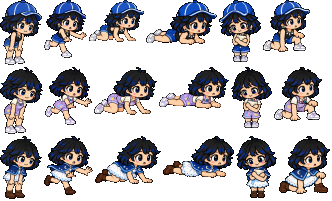
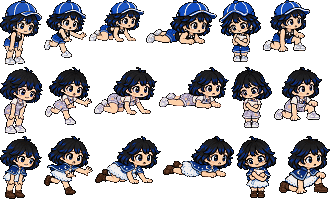
Corrige nitidez de poses y reserva el encuadre de caída sobre el diálogo

diff --git a/app/game/MoonieGame.tsx b/app/game/MoonieGame.tsx
@@ -41,6 +41,7 @@ export default function MoonieGame() {
   const [audioOn,setAudioOn]=useState(false);
   const [fullError,setFullError]=useState('');
   const canvas=useRef<HTMLCanvasElement>(null),preview=useRef<HTMLCanvasElement>(null),frame=useRef<HTMLDivElement>(null);
+  const dialogueBox=useRef<HTMLDivElement>(null);
   const renderer=useRef<MoonieRenderer|null>(null),audio=useRef<MoonieAudio|null>(null);
   const keys=useRef(new Set<string>()),stepTimer=useRef(0),dialogueTimer=useRef(0),advanceRef=useRef(()=>{});
   const live=useRef({scene,look,paused,dialogue,bloomed,finished,visibleChars,progress});
@@ -105,7 +106,14 @@ export default function MoonieGame() {
     function tick(ms:number) {
       if(dead)return;
       const dt=Math.min((ms-(last||ms))/1000,.04);last=ms;
-      const w=world.current,s=live.current;w.scene=s.scene;w.look=s.look;w.bloomed=s.bloomed;w.progress=s.progress;
+      const w=world.current as World & {dialogueTop?:number},s=live.current;w.scene=s.scene;w.look=s.look;w.bloomed=s.bloomed;w.progress=s.progress;
+      if(w.motion==='fallen'&&dialogueBox.current&&canvas.current){
+        const box=dialogueBox.current.getBoundingClientRect(),view=canvas.current.getBoundingClientRect();
+        // Reserve the tallest dialogue encountered, so typewriter wrapping never moves
+        // Moonie down again. Keep this framing through recovery, then discard it.
+        const top=(box.top-view.top)*360/view.height;
+        w.dialogueTop=Math.min(w.dialogueTop??240,top);
+      }else if(!w.motion)w.dialogueTop=undefined;
       w.reading=s.dialogue?.kind==='book1'||s.dialogue?.kind==='book2'||s.dialogue?.kind==='book3'?s.dialogue.kind:null;
       w.starGreeting=s.dialogue?.kind==='star';w.flowerPulse=s.dialogue?.kind==='flower3';
       if(!s.paused) {
@@ -247,7 +255,7 @@ export default function MoonieGame() {
           {!dialogue&&!opening&&<div className="movement-hint"><span><kbd>WASD</kbd> / <kbd>↑↓←→</kbd> Mover</span><span><kbd>E</kbd> Interactuar</span><span><kbd>Esc</kbd> Pausa</span></div>}
           {bloomNotice&&!dialogue&&<div className="bloom-toast" style={{opacity:noticeOpacity}} role="status"><Flower2 size={14}/> Una flor lunar ha despertado</div>}
         </>}
-        {line&&<div className={`dialogue ${bookPage?'book-reading':''}`} role="group" aria-label={`Diálogo de ${line.speaker}`}>
+        {line&&<div ref={dialogueBox} className={`dialogue ${bookPage?'book-reading':''}`} role="group" aria-label={`Diálogo de ${line.speaker}`}>
           <span className="speaker">{line.speaker}{line.thought&&<span> · pensando</span>}</span>
           {bookPage&&<div className="book-vignette" aria-hidden="true"><img src={renderer.current?.bookPages[dialogue?.kind==='book3'?2:dialogue?.kind==='book2'?1:0]} width={512} height={340} alt="" loading="eager" decoding="sync"/></div>}
           <p aria-live="polite" aria-label={line.text}><span aria-hidden="true">{line.text.slice(0,visibleChars)}</span><span className="sr-only">{line.text}</span></p>

diff --git a/app/game/referencias.ts b/app/game/referencias.ts
@@ -1,7 +1,13 @@
 // Approved reference poses and effects (paquete tales-of-moonie-referencias-claude-final-20260924).
-// Generated deterministically by prep/build_assets.py: connected-component cleanup (no global alpha
+// Initially generated by prep/build_assets.py: connected-component cleanup (no global alpha
 // threshold), eye anchors detected from each reference, area reduction with the head width matched
-// to the approved pose of the same outfit. Rectangles index public/assets/moonie-poses-referencias.png.
+// to the approved pose of the same outfit. Crisp palette preparation: scripts/prepare-crisp-poses.py.
+// Rectangles index public/assets/moonie-poses-referencias.png; silhouette and anchors are unchanged.
+// Screen-space composition only: keep the entire 2x silhouette above the actual dialogue box.
+export function rootShotLayout(dialogueTop = 240) {
+  const feetY = Math.round(Math.min(222, dialogueTop - 18));
+  return { x:300, feetY, starX:196, starY:feetY-70 };
+}
 export type RefPose='tropiezo'|'apoyo'|'recostada'|'levantarse'|'libro'|'carta';
 export type RefRect={x:number;y:number;w:number;h:number;anchor:{eyes:number[];y:number;offsets:number[]}};
 export const REF_POSES:Record<RefPose,Record<string,RefRect>>={"libro":{"real":{"x":0,"y":0,"w":42,"h":65,"anchor":{"eyes":[22,30],"y":28,"offsets":[0,2]}},"artist":{"x":0,"y":67,"w":43,"h":67,"anchor":{"eyes":[23,31],"y":27,"offsets":[0,2]}},"explorer":{"x":0,"y":136,"w":42,"h":63,"anchor":{"eyes":[22,31],"y":25,"offsets":[0,2]}}},"tropiezo":{"real":{"x":44,"y":0,"w":43,"h":58,"anchor":{"eyes":[23,30],"y":24,"offsets":[0,1]}},"artist":{"x":45,"y":67,"w":47,"h":58,"anchor":{"eyes":[26,33],"y":24,"offsets":[0,1]}},"explorer":{"x":44,"y":136,"w":49,"h":59,"anchor":{"eyes":[26,34],"y":22,"offsets":[0,1]}}},"apoyo":{"real":{"x":89,"y":0,"w":55,"h":42,"anchor":{"eyes":[37,44],"y":23,"offsets":[0,0]}},"artist":{"x":94,"y":67,"w":63,"h":48,"anchor":{"eyes":[43,52],"y":24,"offsets":[0,0]}},"explorer":{"x":95,"y":136,"w":66,"h":48,"anchor":{"eyes":[45,53],"y":24,"offsets":[0,0]}}},"recostada":{"real":{"x":146,"y":0,"w":71,"h":45,"anchor":{"eyes":[49,57],"y":27,"offsets":[0,0]}},"artist":{"x":159,"y":67,"w":70,"h":42,"anchor":{"eyes":[51,58],"y":23,"offsets":[0,0]}},"explorer":{"x":163,"y":136,"w":71,"h":42,"anchor":{"eyes":[53,61],"y":24,"offsets":[0,0]}}},"carta":{"real":{"x":219,"y":0,"w":42,"h":62,"anchor":{"eyes":[16,24],"y":29,"offsets":[0,-2]}},"artist":{"x":231,"y":67,"w":41,"h":61,"anchor":{"eyes":[15,23],"y":27,"offsets":[0,-2]}},"explorer":{"x":236,"y":136,"w":41,"h":62,"anchor":{"eyes":[16,25],"y":27,"offsets":[0,-2]}}},"levantarse":{"real":{"x":263,"y":0,"w":47,"h":52,"anchor":{"eyes":[29,36],"y":23,"offsets":[0,-1]}},"artist":{"x":274,"y":67,"w":48,"h":54,"anchor":{"eyes":[29,37],"y":24,"offsets":[0,-1]}},"explorer":{"x":279,"y":136,"w":51,"h":58,"anchor":{"eyes":[31,39],"y":25,"offsets":[0,-1]}}}};

diff --git a/app/game/render.ts b/app/game/render.ts
@@ -7,7 +7,7 @@ import { extractChest, prepareFinalMap, FinalePoses } from './finale';
 import { AdventureArt } from './adventure-art';
 import { RIVER_TOP, RIVER_BOTTOM, MAZE_HEIGHT, WORLD_EXTENSION, patternSequence, worldY } from './adventure';
 import { Challenges, MAZE_TOP, MAZE_BOTTOM, storyY, PLANTS, LIGHTS, momentShot } from './challenges';
-import { REF_POSES, REF_FX, RefPose } from './referencias';
+import { REF_POSES, REF_FX, RefPose, rootShotLayout } from './referencias';
 
 export type World = { scene:Scene; x:number; y:number; direction:Direction; walking:boolean; time:number; bloomed:boolean; bloomTime:number; dreamTime:number; sleeping:boolean; look:Look; animationTime:number; interactionTime:number; progress:Progress; secondBloomTime:number; reading: 'book1'|'book2'|'book3'|null; thirdBloomTime:number; motion:'fall'|'fallen'|'rise'|null; motionTime:number; starTime:number; simonMet:boolean; simonTime:number; starGreeting:boolean; flowerPulse:boolean; chestTime?:number; finalTime?:number; challenges?:Challenges };
 type Tile = HTMLCanvasElement;
@@ -279,11 +279,12 @@ export class MoonieRenderer {
   }
   // Root close-up: the approved root plate (16:9 crop, exact 2x), Moonie drawn as her own layer on the
   // path just past the root, a few foreground leaves drifting in the upper corner (never over her).
-  private drawRootShot(c:CanvasRenderingContext2D,w:World){
+  private drawRootShot(c:CanvasRenderingContext2D,w:World & {dialogueTop?:number}){
     c.save();c.imageSmoothingEnabled=false;c.drawImage(this.refPanels!,0,0,320,180,0,0,640,360);
     // The star keeps its place beside her (approved tile and glow, exact 2x), bobbing on game time.
-    const sy=Math.round(246+Math.sin(w.time*1.6)*4);this.glow(c,196,sy,40,'rgba(255,221,144,.30)');c.drawImage(this.tiles[3][3],180,sy-16,32,32);
-    const rise=w.motion==='rise';this.drawCharacter(c,w.look,w.direction,300,322,2,rise?animationFrame('rise',w.motionTime):2,rise?'rise':'fall');
+    const shot=rootShotLayout(w.dialogueTop);
+    const sy=Math.round(shot.starY+Math.sin(w.time*1.6)*4);this.glow(c,shot.starX,sy,40,'rgba(255,221,144,.30)');c.drawImage(this.tiles[3][3],shot.starX-16,sy-16,32,32);
+    const rise=w.motion==='rise';this.drawCharacter(c,w.look,w.direction,shot.x,shot.feetY,2,rise?animationFrame('rise',w.motionTime):2,rise?'rise':'fall');
     for(let i=0;i<4;i++){const f=((w.time*.07+i*.29)%1+1)%1;this.fx(c,'hojas',i*2+1,590-i*34-f*150,-20+f*230,Math.sin(Math.PI*f)*.9,2);}
     c.restore();
   }

diff --git a/scripts/prepare-crisp-poses.py b/scripts/prepare-crisp-poses.py
@@ -1,0 +1,44 @@
+"""Offline atlas cleanup. Requires Pillow, numpy and scipy; never runs in the game.
+
+Rebuild from the immutable pre-fix atlas in Git, preserving every silhouette,
+rectangle and anchor. No resizing, dithering, new illustration or runtime filter.
+"""
+import io
+import subprocess
+from pathlib import Path
+
+import numpy as np
+from PIL import Image, ImageFilter
+from scipy.ndimage import distance_transform_edt
+
+ROOT = Path(__file__).resolve().parents[1]
+ASSET = 'public/assets/moonie-poses-referencias.png'
+SOURCE = 'b0ea2aa23a74f542bca859b3aac1fdd0e5ed1d59'
+raw = subprocess.check_output(['git', 'show', f'{SOURCE}:{ASSET}'], cwd=ROOT)
+source = Image.open(io.BytesIO(raw)).convert('RGBA')
+pixels = np.array(source)
+alpha = source.getchannel('A')
+mask = pixels[:, :, 3] > 0
+# Extend colors beyond the silhouette only for the filter's neighbourhood.
+# This prevents transparent black from creating dark fringes. Alpha never changes.
+_, nearest = distance_transform_edt(~mask, return_indices=True)
+rgb = Image.fromarray(pixels[:, :, :3][tuple(nearest)])
+sharp = rgb.filter(ImageFilter.UnsharpMask(radius=.65, percent=110, threshold=7))
+result = Image.new('RGBA', source.size)
+for y, height in [(0, 67), (67, 69), (136, 65)]:
+    box = (0, y, source.width, y + height)
+    original = np.array(source.crop(box))
+    colors = original[:, :, :3][original[:, :, 3] > 0]
+    # Original colors supply the palette: sharpening cannot introduce new hues.
+    palette = Image.fromarray(colors.reshape(1, -1, 3)).quantize(
+        colors=48, method=Image.Quantize.MEDIANCUT)
+    tile = sharp.crop(box).quantize(palette=palette, dither=Image.Dither.NONE).convert('RGBA')
+    tile.putalpha(alpha.crop(box))
+    result.paste(tile, (0, y))
+assert np.array_equal(np.array(result)[:, :, 3], pixels[:, :, 3])
+assert result.size == source.size
+clean = np.array(result)
+clean[~mask] = 0
+result = Image.fromarray(clean)
+result.save(ROOT / ASSET)
+print('18 poses: original dimensions and alpha preserved; 48 colors per outfit, no dithering.')

diff --git a/docs/Revision-nitidez-caida.md b/docs/Revision-nitidez-caida.md
@@ -1,0 +1,38 @@
+# Revisión localizada: nitidez y caída — 24/09/2026
+
+Base: `b0ea2aa23a74f542bca859b3aac1fdd0e5ed1d59`.
+Rama: `fix/poses-nitidas-caida`. Sin push, merge ni publicación.
+
+## Cambios
+
+- El atlas de las seis poses nuevas (tres atuendos) contenía suavizado por reducción de área. Se aplicó enfoque moderado y una paleta de 48 colores por atuendo, obtenida del atlas original, sin dithering. No cambia ninguna dimensión, silueta alfa, coordenada de recorte ni anclaje facial.
+- El plano de la raíz colocaba los pies en y=322 de un lienzo de 360, detrás del diálogo. Ahora el límite inferior es y=222, con 18 píxeles mínimos de margen respecto al diálogo medido en pantalla. La estrella acompaña la composición. Se conserva el encuadre reservado durante la recuperación. No se cambia la posición del personaje en el mundo ni las colisiones.
+- El atlas se procesa fuera del juego. No hay filtros de nitidez en tiempo real ni imágenes nuevas generadas. `scripts/prepare-crisp-poses.py` reproduce el procesamiento desde el atlas original conservado en Git; requiere Pillow, numpy y scipy, únicamente si se desea regenerarlo.
+
+## Verificación realizada
+
+- `npm run test:game`: 36/36.
+- `node --test tests/*.test.mjs`: 43/43, tras generar `dist` con Sites. Dos pruebas nuevas cubren los márgenes del plano y los recortes del atlas.
+- `npm run build` y `npm run build:vercel`: ambas correctas.
+- 486 renders: seis poses × 27 combinaciones × tres ciclos, sin deriva entre repeticiones. Inspección visual de recostada e incorporación con los tres atuendos, tonos y rasgos mediante el motor real de dibujo.
+- Transparencia binaria y siluetas idénticas al atlas de origen. Diálogos, progresión, mapas, personalización y `.openai/hosting.json` conservados.
+
+## Límite y revisión pendiente
+
+El navegador remoto bloqueó tanto la URL local como el protocolo de archivo. No se realizó un recorrido en navegador ni se certifica esta revisión como aprobada por la jugadora. La verificación visual se hizo con el renderer real sobre Canvas offline; la superposición del diálogo en las láminas es una maqueta de comprobación, no una captura del navegador.
+
+Revisar en el navegador local: nitidez a tamaño normal y pantalla completa; las tres líneas de la caída, especialmente la de las muletas; la transición al levantarse; gafas/pecas/mejillas; lectura y carta. Pausar y reanudar durante el plano. El acabado conserva las limitaciones de detalle del atlas reducido; no es un redibujo manual de cada píxel.
+
+## Bundle incremental
+
+El bundle de actualización necesita el commit base b0ea2aa en la copia local; no se clona solo. Desde esa copia:
+
+```powershell
+git fetch "$env:USERPROFILE\Downloads\tales-of-moonie-nitidez-caida-20260924.bundle" fix/poses-nitidas-caida:fix/poses-nitidas-caida
+git switch fix/poses-nitidas-caida
+npm run build:vercel
+npm run test:game
+npx next start -p 3001
+```
+
+No se necesita ejecutar Python ni reinstalar dependencias si la copia anterior ya tiene `node_modules`. La suite completa de Sites requiere Bash y `dist`; en Windows se puede comprobar el juego con `test:game` y `node --test tests/visual-poses.test.mjs`.
